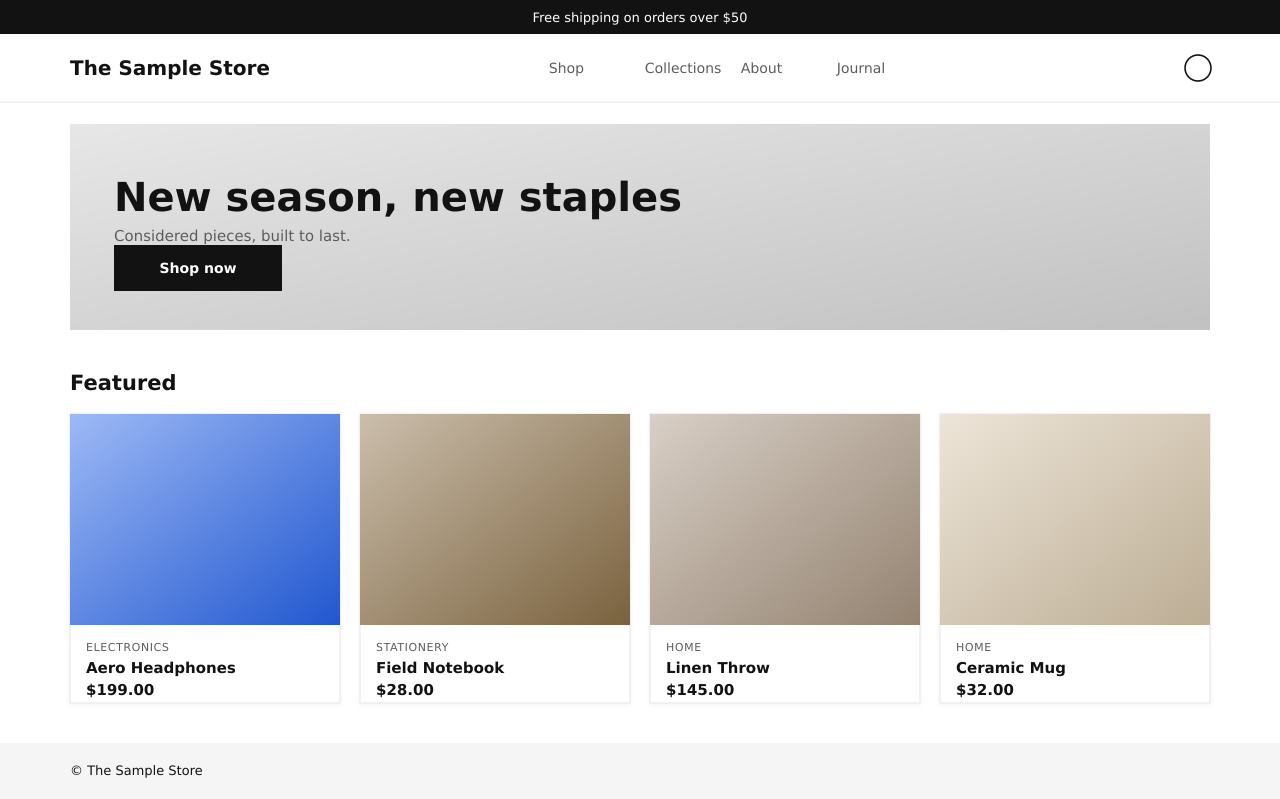
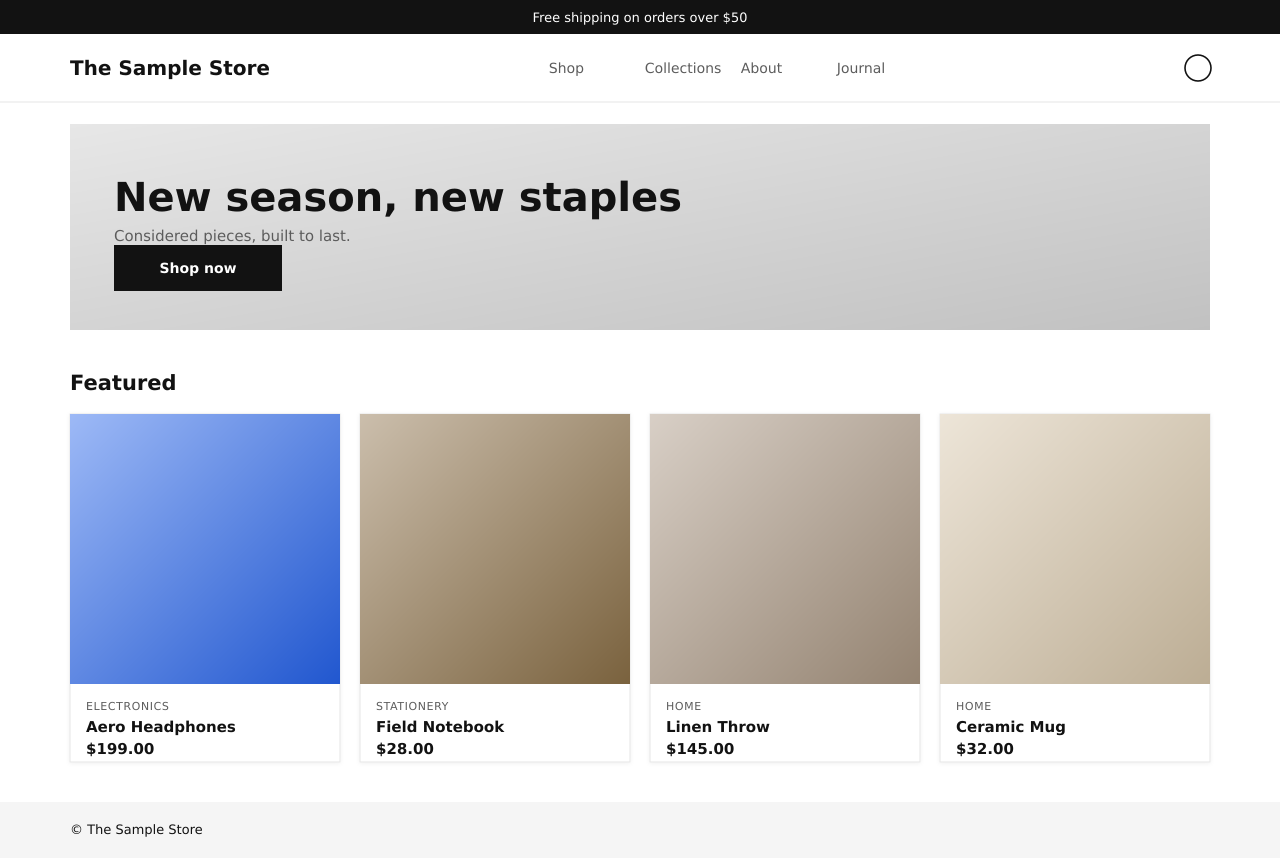
Differentiate the bundled themes' product cards
The themes read as five names for one design because the single most
prominent element - the product card - had converged. All four Featured
sections rendered the identical anatomy: a 1:1 cropped image, the name, then
the same five-star glyph row. Palettes and section headings were already
distinct; the card was not.

Pushed each card toward the promise in its own theme.json description:

- Bold ('image-first, oversized photography') now crops 4:5 portrait, the
  proportion fashion lookbooks use, and renders the rating as a solid
  proportional fill meter instead of a glyph row - blocks read further than
  glyphs, which suits the loud visual language.
- Minimal ('text-first, no marketing chrome') now crops 4:3 landscape so the
  image supports rather than dominates, and drops the star strip for a
  typographic '4.5 / 5 (12)'. A five-star row is exactly the marketing chrome
  this theme claims to omit.
- Dawnlight and Pulse keep 1:1, which is correct for their references (Shopify
  Dawn and the Medusa starter).

Both rating treatments keep the aria-label, the numeric score and the review
count, so the accessibility contract in theme-featured.test.tsx is unchanged
and still passes.

Adds lib/theme-distinctness.test.tsx, which pins the differentiation: no two
themes may share a core token fingerprint, the catalogue must span light and
dark, at least three distinct image aspect ratios, and the star row must not
[…]

diff --git a/apps/web/lib/theme-distinctness.test.tsx b/apps/web/lib/theme-distinctness.test.tsx
@@ -1,0 +1,171 @@
+/**
+ * The bundled themes must stay visually distinct from one another.
+ *
+ * Each theme sells a different promise in its theme.json description - Bold is
+ * "image-first / oversized photography", Minimal is "text-first, no marketing
+ * chrome", Dawnlight is flat Shopify-Dawn, Pulse is rounded Medusa-style. The
+ * risk is drift: a shared edit (or a copy-paste between sections) quietly
+ * collapses them onto the same card, and the theme picker becomes five names
+ * for one design.
+ *
+ * That had already happened to the product card. All four Featured sections
+ * rendered the identical anatomy: a 1:1 image, then the name, then the same
+ * five-star glyph row. This test pins the differentiators that were
+ * reintroduced so they cannot converge again silently.
+ *
+ * It deliberately asserts on RELATIVE difference (the set of values is
+ * distinct) rather than on exact px values, so a designer can retune any
+ * single theme without fighting the test - only making two themes identical
+ * fails.
+ */
+import { describe, it, expect } from 'vitest';
+import { render } from '@testing-library/react';
+import { readFileSync } from 'fs';
+import { resolve } from 'path';
+
+import PulseFeatured from '@/themes/pulse/sections/Featured';
+import MinimalFeatured from '@/themes/minimal/sections/Featured';
+import BoldFeatured from '@/themes/bold/sections/Featured';
+import DawnlightFeatured from '@/themes/dawnlight/sections/Featured';
+
+const THEMES = [
+  { key: 'bold', Component: BoldFeatured },
+  { key: 'dawnlight', Component: DawnlightFeatured },
+  { key: 'minimal', Component: MinimalFeatured },
+  { key: 'pulse', Component: PulseFeatured },
+];
+
+const products = [
+  {
+    id: 'p1',
+    name: 'Sale Tee',
+    slug: 'sale-tee',
+    price: 20,
+    compareAtPrice: 30,
+    averageRating: 4.5,
+    reviewCount: 12,
+    images: [],
+    category: { name: 'Clothing', slug: 'clothing' },
+  },
+];
+
+function renderFeatured(Component: (typeof THEMES)[number]['Component']) {
+  const { container } = render(
+    <Component title="Featured" products={products} config={{ limit: 4 }} />,
+  );
+  return container.querySelector('[data-section="featured"]') as HTMLElement;
+}
+
+describe('theme tokens are distinct', () => {
+  // The token layer is what drives colour, radius and density. Two themes
+  // sharing an entire palette would look the same regardless of markup.
+  const tokens = THEMES.map(({ key }) => ({
+    key,
+    t: JSON.parse(
+      readFileSync(resolve(__dirname, `../themes/${key}/theme.json`), 'utf8'),
+    ).tokens as Record<string, unknown>,
+  }));
+
+  it.each(['primaryColor', 'accentColor', 'bodyBg', 'radius', 'fontFamily'])(
+    'no two themes share the same %s',
+    (token) => {
+      const values = tokens.map((x) => `${x.t[token]}`);
+      // Dawnlight and Minimal may legitimately both be light, so we only
+      // require that the FULL set is not collapsed to a single value.
+      expect(new Set(values).size, `${token}: ${values.join(', ')}`).toBeGreaterThan(1);
+    },
+  );
+
+  it('each theme has a unique combination of its core tokens', () => {
+    const fingerprints = tokens.map(
+      (x) => `${x.t.primaryColor}|${x.t.accentColor}|${x.t.bodyBg}|${x.t.radius}|${x.t.fontFamily}`,
+    );
+    expect(new Set(fingerprints).size).toBe(THEMES.length);
+  });
+
+  it('ships both a light and a dark theme', () => {
+    // A catalogue where every theme is light gives an operator no real choice.
+    const luminance = (hex: string) => {
+      const h = hex.replace('#', '');
+      const [r, g, b] = [0, 2, 4].map((i) => parseInt(h.slice(i, i + 2), 16) / 255);
+      return 0.2126 * r + 0.7152 * g + 0.0722 * b;
+    };
+    const ls = tokens.map((x) => luminance(String(x.t.bodyBg)));
+    expect(Math.min(...ls), 'expected at least one dark theme').toBeLessThan(0.2);
+    expect(Math.max(...ls), 'expected at least one light theme').toBeGreaterThan(0.8);
+  });
+});
+
+describe('product cards are not all the same shape', () => {
+  it('themes do not all crop product images to the same aspect ratio', () => {
+    // The concrete regression: every Featured section used a 1:1 image, so
+    // the four themes produced visually interchangeable grids.
+    const ratios = THEMES.map(({ key }) => {
+      const src = readFileSync(
+        resolve(__dirname, `../themes/${key}/sections/Featured.tsx`),
+        'utf8',
+      );
+      const m = src.match(/aspectRatio:\s*'([^']+)'/);
+      return { key, ratio: m ? m[1].replace(/\s/g, '') : 'none' };
+    });
+
+    const distinct = new Set(ratios.map((r) => r.ratio));
+    expect(
+      distinct.size,
+      `product image aspect ratios: ${ratios.map((r) => `${r.key}=${r.ratio}`).join(', ')}`,
+    ).toBeGreaterThanOrEqual(3);
+  });
+
+  it('renders a different number of DOM nodes per card across themes', () => {
+    // A crude but honest proxy for "different card anatomy": if two themes
+    // build the identical element tree, their markup has converged.
+    const shapes = THEMES.map(({ key, Component }) => {
+      const section = renderFeatured(Component);
+      return { key, n: section.querySelectorAll('*').length };
+    });
+    expect(new Set(shapes.map((s) => s.n)).size, JSON.stringify(shapes)).toBeGreaterThan(1);
+  });
+});
+
+describe('rating treatments differ but keep the same a11y contract', () => {
+  it('every theme exposes the score to assistive tech', () => {
+    // Whatever the visual treatment, the semantics must not regress.
+    for (const { key, Component } of THEMES) {
+      const section = renderFeatured(Component);
+      expect(
+        section.querySelector('[aria-label="Rated 4.5 out of 5"]'),
+        `${key} must label its rating`,
+      ).toBeTruthy();
+      expect(section.textContent, `${key} shows the numeric score`).toContain('4.5');
+      expect(section.textContent, `${key} shows the review count`).toContain('(12)');
+    }
+  });
+
+  it('does not render the same star glyph row in every theme', () => {
+    // Minimal drops the glyph strip (it ships "no marketing chrome") and Bold
+    // uses a solid fill meter, so the star row must not be universal.
+    const withStars = THEMES.filter(({ Component }) =>
+      (renderFeatured(Component).textContent ?? '').includes('★'),
+    ).map((t) => t.key);
+
+    expect(withStars.length, `themes using a star row: ${withStars.join(', ')}`).toBeLessThan(
+      THEMES.length,
+    );
+  });
+
+  it('minimal renders a typographic rating rather than stars', () => {
+    const section = renderFeatured(MinimalFeatured);
+    expect(section.textContent).not.toContain('★');
+    expect(section.textContent).toContain('4.5');
+  });
+
+  it('bold renders a proportional meter for the rating', () => {
+    const section = renderFeatured(BoldFeatured);
+    const label = section.querySelector('[aria-label="Rated 4.5 out of 5"]')!;
+    // 4.5 / 5 -> the filled bar should be 90% wide.
+    const fill = Array.from(label.querySelectorAll<HTMLElement>('span')).find((el) =>
+      /width:\s*90%/.test(el.getAttribute('style') ?? ''),
+    );
+    expect(fill, 'expected a 90%-wide fill for a 4.5 rating').toBeTruthy();
+  });
+});

diff --git a/apps/web/themes/bold/sections/Featured.tsx b/apps/web/themes/bold/sections/Featured.tsx
@@ -130,14 +130,12 @@ export default function BoldFeatured({ title, subtitle, products, config }: Sect
             >
               <div
                 style={{
-                  // Square image, full bleed. The image is
-                  // the product. Padding-bottom trick to keep
-                  // 1:1 aspect ratio without the new
-                  // `aspectRatio` CSS (which the rest of the
-                  // codebase uses, but for the Bold card the
-                  // padding trick matches the default
-                  // ProductCard's pattern).
-                  aspectRatio: '1',
+                  // Tall 4:5 editorial crop. Bold is the
+                  // "image-first / oversized photography" theme, and a
+                  // portrait frame is what fashion lookbooks use - it
+                  // also sets Bold apart from the square-cropped themes
+                  // at a glance, which a shared 1:1 did not.
+                  aspectRatio: '4 / 5',
                   backgroundColor: 'var(--card-bg, #171717)',
                   overflow: 'hidden',
                   marginBottom: '24px',
@@ -195,11 +193,33 @@ export default function BoldFeatured({ title, subtitle, products, config }: Sect
                     margin: '0 0 6px',
                   }}
                 >
-                  <span aria-hidden="true">{'★'.repeat(Math.round(rating))}</span>
-                  <span aria-hidden="true" style={{ opacity: 0.3 }}>
-                    {'★'.repeat(5 - Math.round(rating))}
-                  </span>{' '}
-                  <span>{rating.toFixed(1)}</span>
+                  {/* A solid fill meter rather than a star row: Bold is
+                      the loud, read-it-from-across-the-room theme, and
+                      blocks carry further than glyphs. aria-label above
+                      still announces the real score. */}
+                  <span
+                    aria-hidden="true"
+                    style={{
+                      display: 'inline-block',
+                      verticalAlign: 'middle',
+                      width: '56px',
+                      height: '6px',
+                      backgroundColor: 'var(--border, #262626)',
+                      marginInlineEnd: '8px',
+                    }}
+                  >
+                    <span
+                      style={{
+                        display: 'block',
+                        width: `${(rating / 5) * 100}%`,
+                        height: '100%',
+                        backgroundColor: 'var(--accent, #facc15)',
+                      }}
+                    />
+                  </span>
+                  <span style={{ fontWeight: 800, letterSpacing: '0.04em' }}>
+                    {rating.toFixed(1)}
+                  </span>
                   {product.reviewCount ? ` (${product.reviewCount})` : ''}
                 </p>
               )}

diff --git a/apps/web/themes/minimal/sections/Featured.tsx b/apps/web/themes/minimal/sections/Featured.tsx
@@ -116,11 +116,14 @@ export default function MinimalFeatured({ title, subtitle, products, config }: S
             >
               <div
                 style={{
-                  // Square aspect ratio, subtle border, no shadow.
-                  // The minimal theme deliberately doesn't use
-                  // shadow - "elevation" is a marketing pattern,
+                  // Wide 4:3 crop, subtle border, no shadow. Minimal is
+                  // text-first: a shorter frame keeps the image
+                  // supporting rather than dominant, and leaves the
+                  // serif name and price as the loudest thing on the
+                  // card. Also distinguishes it from the square themes.
+                  // "Elevation" stays off - it is a marketing pattern,
                   // not a minimal one.
-                  aspectRatio: '1',
+                  aspectRatio: '4 / 3',
                   backgroundColor: 'var(--surface-2, #f0eee8)',
                   border: '1px solid var(--border, #e8e6e0)',
                   marginBottom: '20px',
@@ -176,11 +179,13 @@ export default function MinimalFeatured({ title, subtitle, products, config }: S
                     margin: '0 0 6px',
                   }}
                 >
-                  <span aria-hidden="true">{'★'.repeat(Math.round(rating))}</span>
-                  <span aria-hidden="true" style={{ opacity: 0.35 }}>
-                    {'★'.repeat(5 - Math.round(rating))}
-                  </span>{' '}
+                  {/* Typographic rating, no star row. Minimal ships
+                      "no marketing chrome", and a five-star glyph strip
+                      is precisely that; the score reads as editorial
+                      credit instead. Screen readers still get the full
+                      "Rated x out of 5" from aria-label above. */}
                   <span>{rating.toFixed(1)}</span>
+                  <span aria-hidden="true" style={{ opacity: 0.5 }}> / 5</span>
                   {product.reviewCount ? ` (${product.reviewCount})` : ''}
                 </p>
               )}

diff --git a/scripts/render-theme-previews.js b/scripts/render-theme-previews.js
@@ -95,9 +95,15 @@ function buildSvg(theme, W) {
   // Product grid geometry.
   const gap = 20;
   const cardW = (inner - gap * (perRow - 1)) / perRow;
-  // Cap the image box: at 2-per-row (Bold) a 0.78 aspect would make each card
-  // ~700px tall and swamp the mock. Real grids letterbox wide cards instead.
-  const imgH = Math.round(Math.min(cardW * 0.78, 300));
+  // Each theme crops its product images differently (see the Featured
+  // sections): Bold is a 4:5 editorial portrait, Minimal a 4:3 landscape,
+  // Dawnlight and Pulse stay square. Mirror that here or the previews would
+  // misrepresent the single most obvious difference between the themes.
+  const IMAGE_RATIO = { bold: 5 / 4, minimal: 3 / 4, dawnlight: 1, pulse: 1, default: 1 };
+  const ratio = IMAGE_RATIO[theme.key] ?? 1;
+  // Cap the box: at 2-per-row (Bold) an uncapped portrait crop would make
+  // each card ~800px tall and swamp the mock.
+  const imgH = Math.round(Math.min(cardW * ratio, 340));
   const cardH = imgH + 78;
 
   const gridTop = announceH + headerH + heroH + 62;

diff --git a/apps/web/vitest.components.config.ts b/apps/web/vitest.components.config.ts
@@ -26,6 +26,7 @@ export default defineConfig({
       'lib/theme-rtl.test.{ts,tsx}',
       'lib/themeSections.test.{ts,tsx}',
       'lib/theme-featured.test.{ts,tsx}',
+      'lib/theme-distinctness.test.{ts,tsx}',
       'lib/themeConfigSchema.test.{ts,tsx}',
       'lib/layouts/render.test.{ts,tsx}',
       'lib/layouts/useActiveLayout.test.{ts,tsx}',
